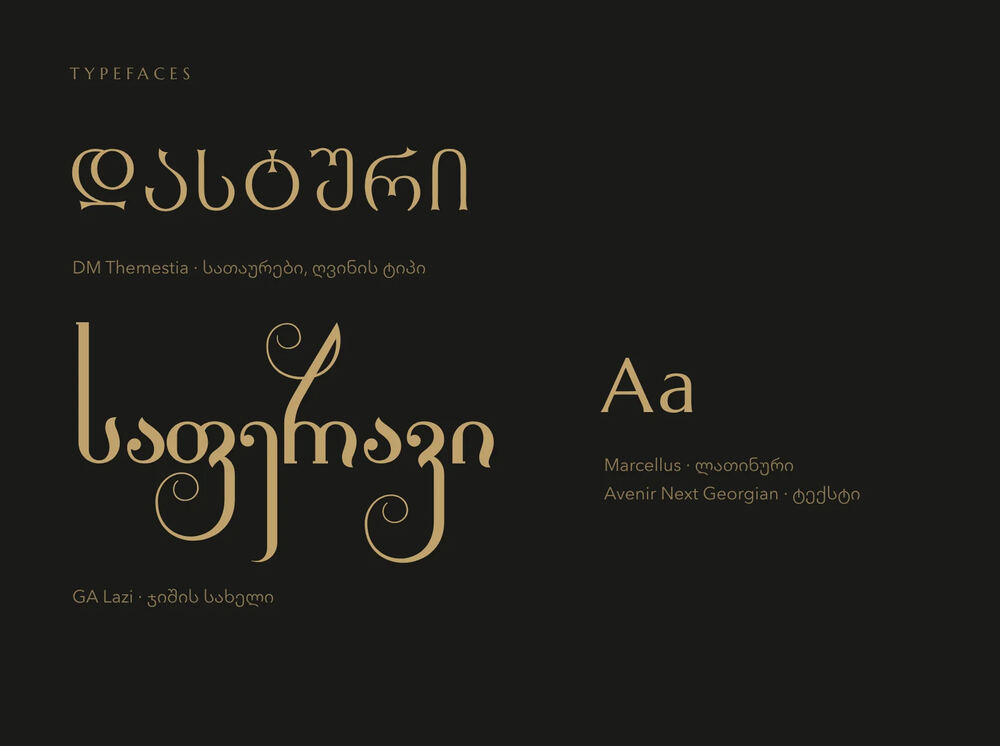
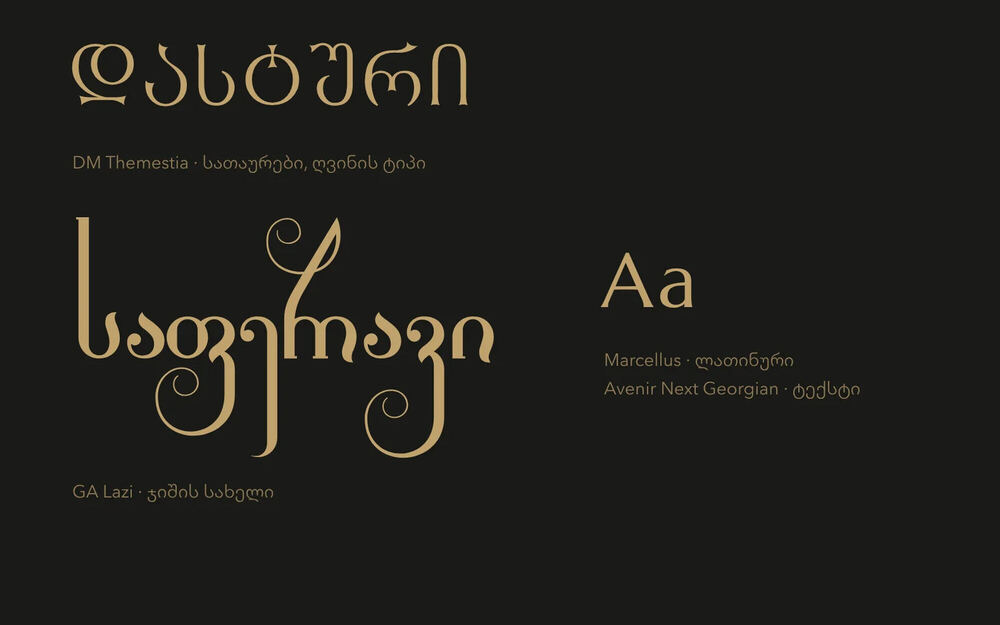
Dasturi: one canvas, one grid, numbered chapters, no repeated photos, specimen inset
Claude-Session: https://claude.ai/code/session_01Qp5BUKYT9N3deWkwTKb9NA

Changed region(s): [[0.062, 0.3344, 0.496, 0.8208], [0.062, 0.0608, 0.465, 0.304], [0.589, 0.3952, 0.868, 0.6688]]

diff --git a/src/app/baked/dasturi-case.tsx b/src/app/baked/dasturi-case.tsx
@@ -37,11 +37,10 @@ const SHOTS: Shot[] = [
   { key: 'terrace-gold', w: 2000, h: 1324, title: 'საწური, ქისი, ცოლიკაური', alt: 'სამი ბოთლი ქვის ტერასაზე, მთების ფონზე' },
   { key: 'duo-gold', w: 2000, h: 1324, title: 'საფერავი და ქისი', alt: 'საფერავი და ქისი ქვის კიბეზე, მზის შუქში' },
   { key: 'capsule', w: 1549, h: 1150, title: 'კაფსული', alt: 'ბოთლის ყელი, ბორდოსფერი კაფსულა ოქროსფერი წარწერით' },
-  { key: 'typefaces', w: 2000, h: 1492, title: 'ტიპოგრაფია', alt: 'დასტურის შრიფტები: DM Themestia, GA Lazi, Marcellus, Avenir Next Georgian' },
+  { key: 'typefaces', w: 2000, h: 1250, title: 'ტიპოგრაფია', alt: 'დასტურის შრიფტები: DM Themestia, GA Lazi, Marcellus, Avenir Next Georgian' },
   { key: 'terrace-bordeaux', w: 2000, h: 1324, title: 'ბორდოსფერი ოჯახი', alt: 'სამი ბოთლი ბორდოსფერი ეტიკეტებით ქვის ტერასაზე' },
   { key: 'duo-bordeaux', w: 1549, h: 1017, title: 'საფერავი და ქისი, ბორდო', alt: 'საფერავი და ქისი ბორდოსფერი ეტიკეტებით ქვის კიბეზე' },
   { key: 'saperavi-bordeaux', w: 1549, h: 1017, title: 'საფერავი, ბორდო', alt: 'საფერავი ბორდოსფერი ეტიკეტით ტრავერტინზე' },
-  { key: 'duo-satsuri', w: 1549, h: 1017, title: 'საწური და ცოლიკაური', alt: 'საწური და ცოლიკაური ქვის კიბეზე' },
 ];
 const at = (key: string) => SHOTS.findIndex((s) => s.key === key);
 
@@ -69,8 +68,8 @@ function Photo({ k, onOpen, sizes = FULL, cover }: { k: string; onOpen: (i: numb
 }
 
 /* Elegant type: small light headings, short justified columns */
-const H2 = 'text-[24px] sm:text-[30px] leading-[1.2]';
-const COL = 'text-[13.5px] leading-[1.85] text-justify [hyphens:manual] [text-align-last:left] tracking-[0.01em]';
+const H2 = 'text-[30px] sm:text-[44px] leading-[1.12] tracking-[-0.01em]';
+const COL = 'text-[15px] leading-[1.8] text-justify [hyphens:manual] [text-align-last:left] tracking-[0.01em]';
 
 /* Browsers have no Georgian hyphenation, so justified lines open wide gaps.
    Offer soft breaks at the common syllable boundary V-CV, keeping at least
@@ -88,52 +87,70 @@ function hy(text: string) {
   });
 }
 function Col({ children, className = '', dark }: { children: string; className?: string; dark?: boolean }) {
-  return <p lang="ka" className={`${COL} max-w-[360px] ${dark ? 'text-[#191A17]/65' : 'text-white/60'} ${className}`}>{hy(children)}</p>;
+  return <p lang="ka" className={`${COL} max-w-[380px] ${dark ? 'text-[#191A17]/65' : 'text-white/60'} ${className}`}>{hy(children)}</p>;
 }
 
-/* ── The label family: rise, foil, switch the edition ─────────────────── */
+
+/* ── Layout primitives: one canvas, one grid ───────────────────────── */
+
+/** the content width every section shares */
+function Wrap({ children, className = '' }: { children: React.ReactNode; className?: string }) {
+  return <div className={`mx-auto w-full max-w-[1240px] px-6 sm:px-10 lg:px-14 ${className}`}>{children}</div>;
+}
+
+/** a chapter opener: index + name on the left, heading in the middle, a justified column on the right */
+function Chapter({ no, name, title, children, id }: { no: string; name: string; title: string; children: string; id: string }) {
+  return (
+    <Wrap className="pt-28 sm:pt-40 pb-14 sm:pb-20">
+      <div className="grid grid-cols-1 lg:grid-cols-12 gap-x-8 gap-y-6 items-start">
+        <div className="lg:col-span-3 flex items-baseline gap-3 text-[13px]" style={{ color: GOLD }}>
+          <span className="tabular-nums">{no}</span><span className="text-white/45">{name}</span>
+        </div>
+        <h2 id={id} className={`lg:col-span-4 ${H2}`} style={{ fontFamily: SERIF, fontWeight: 300 }}>{title}</h2>
+        <div className="lg:col-span-5 lg:pt-3"><Col className="!max-w-[460px]">{children}</Col></div>
+      </div>
+    </Wrap>
+  );
+}
 
 function LabelSystem() {
   const [edition, setEdition] = useState<'gold' | 'bordeaux'>('gold');
   return (
-    <section aria-labelledby="system" className="rounded-md overflow-hidden" style={{ background: STONE, color: BLACK }}>
-      <div className="px-7 sm:px-12 lg:px-[9%] pt-16 sm:pt-20 grid grid-cols-1 lg:grid-cols-[1fr_auto] gap-8 items-end">
-        <h2 id="system" className={H2} style={{ fontFamily: SERIF, fontWeight: 300 }}>
-          ხუთი ჯიში, ერთი ოჯახი
-        </h2>
-        <div>
-          <Col dark>პანელი, არშია და ჯვარი ყველა ბოთლზე ერთია. იცვლება მხოლოდ ჯიშის სახელი და წელი.</Col>
-          <div className="mt-6 inline-flex rounded-full p-1 bg-[#191A17]/10" role="radiogroup" aria-label="გამოცემა">
-            {([['gold', 'ოქროსფერი', GOLD], ['bordeaux', 'ბორდოსფერი', BORDEAUX]] as const).map(([id, label, c]) => (
-              <button
-                key={id}
-                type="button"
-                role="radio"
-                aria-checked={edition === id}
-                onClick={() => setEdition(id)}
-                className={`inline-flex items-center gap-2 rounded-full px-4 py-2 text-[14px] transition-colors outline-none focus-visible:shadow-[0_0_0_2px_#191A17] ${edition === id ? 'bg-[#191A17] text-white' : 'text-[#191A17]/70 hover:text-[#191A17]'}`}
-              >
-                <span className="w-2.5 h-2.5 rounded-full" style={{ background: c }} />
-                {label}
-              </button>
-            ))}
-          </div>
+    <Wrap>
+      <div className="flex justify-end pb-8">
+        <div className="inline-flex rounded-full p-1 bg-white/[0.06] ring-1 ring-inset ring-white/10" role="radiogroup" aria-label="გამოცემა">
+          {([['gold', 'ოქროსფერი', GOLD], ['bordeaux', 'ბორდოსფერი', BORDEAUX]] as const).map(([id, label, c]) => (
+            <button
+              key={id}
+              type="button"
+              role="radio"
+              aria-checked={edition === id}
+              onClick={() => setEdition(id)}
+              className={`inline-flex items-center gap-2 rounded-full px-4 py-2 text-[13px] transition-colors outline-none focus-visible:shadow-[0_0_0_2px_#C0A16D] ${edition === id ? 'bg-[#F0EADF] text-[#191A17]' : 'text-white/60 hover:text-white'}`}
+            >
+              <span className="w-2.5 h-2.5 rounded-full ring-1 ring-inset ring-black/10" style={{ background: c }} />
+              {label}
+            </button>
+          ))}
         </div>
       </div>
-      <div className="px-5 sm:px-12 lg:px-[6%] pt-16 pb-20 sm:pb-28">
-        <LabelRow key={edition} edition={edition} />
-      </div>
-    </section>
+      <LabelRow key={edition} edition={edition} tone="dark" />
+    </Wrap>
   );
 }
-
-/* ── Page ───────────────────────────────────────────────────────────── */
 
 const swatches = [
   { name: 'Champagne Gold', ka: 'ოქროსფერი', role: 'ეტიკეტის პანელი', hex: '#C0A16D', ink: BLACK },
   { name: 'Wine Bordeaux', ka: 'ბორდოსფერი', role: 'კაფსული, მეორე გამოცემა', hex: '#7A1C30', ink: IVORY },
   { name: 'Soft Silver', ka: 'ვერცხლისფერი', role: 'დამატებითი', hex: '#A9ABAE', ink: BLACK },
   { name: 'Deep Black', ka: 'შავი', role: 'არშია, ტექსტი', hex: '#191A17', ink: IVORY },
+];
+
+const facts: [string, string][] = [
+  ['კლიენტი', 'დასტური'],
+  ['წელი', '2026'],
+  ['სერვისი', 'ლოგო, ეტიკეტები, შეფუთვა'],
+  ['ჯიშები', 'საფერავი, მანავის მწვანე, ქისი, საწური, ცოლიკაური'],
 ];
 
 export function DasturiCase() {
@@ -154,126 +171,123 @@ export function DasturiCase() {
       <CaseHeroTarget path="/projects/dasturi" />
       <MotionStyles />
 
-      <div className="px-1.5 pt-14 sm:pt-[52px] space-y-1.5">
-        {/* ── Hero: the ibex in chrome ─────────────────────────────── */}
-        <header className="relative rounded-md overflow-hidden min-h-[calc(100svh-64px)] flex flex-col" style={{ background: BLACK, color: IVORY }}>
-          <div className="flex items-start justify-between p-5 sm:p-8 text-[13px]">
-            <Link to="/work" className="inline-flex items-center gap-1.5 text-white/50 hover:text-white transition-colors">
-              <ArrowLeft size={13} /> ნამუშევრები
-            </Link>
-            <span className="hidden sm:inline text-white/40">გაამოძრავე კურსორი</span>
-          </div>
-          <div className="flex-1 flex items-center justify-center px-6">
-            <ChromeLogo
-              src={`${P}/ibex-height.png`}
-              fallback={`${P}/ibex-gold.png`}
-              alt="დასტურის ლოგო: ჯიხვი და სიტყვანიშანი, ქრომში"
-              className="h-[min(64svh,620px)] aspect-[1285/1693]"
-            />
-          </div>
-          <div className="grid grid-cols-1 sm:grid-cols-[1fr_auto] gap-4 items-end p-5 sm:p-8">
-            <h1 className="text-[22px] sm:text-[28px] leading-[1.2]" style={{ fontFamily: SERIF, fontWeight: 300 }}>
-              დასტური, ქართული ღვინის ბრენდი
-            </h1>
-            <p className="text-[14px] text-white/55 sm:text-right">ლოგო, ეტიკეტები და შეფუთვა<br />2026</p>
-          </div>
-        </header>
+      <article className="px-1.5 pt-14 sm:pt-[52px]">
+        <div className="rounded-md overflow-hidden" style={{ background: BLACK, color: IVORY }}>
 
-        {/* ── Opening ──────────────────────────────────────────────── */}
-        <section aria-label="პროექტის შესახებ" className="rounded-md overflow-hidden" style={{ background: BLACK, color: IVORY }}>
-          <div className="px-6 sm:px-12 lg:px-[9%] py-16 sm:py-24 grid grid-cols-2 lg:grid-cols-[1fr_1fr_340px_340px] gap-x-10 gap-y-8">
-            <dl className="contents text-[13px]">
-              {[['კლიენტი', 'დასტური'], ['სერვისი', 'ლოგო, ეტიკეტები, შეფუთვა']].map(([k, val]) => (
-                <div key={k}><dt style={{ color: GOLD }}>{k}</dt><dd className="mt-1 text-white/70">{val}</dd></div>
-              ))}
-            </dl>
-            <Col className="col-span-2 lg:col-span-1">დასტური ქართული ღვინის ახალი ბრენდია. ნიშნად ავირჩიეთ კავკასიური ჯიხვი: მშვიდი, ამაყი დგომით და მომრგვალებული რქებით.</Col>
-            <Col className="col-span-2 lg:col-span-1">ოქროსფერი პანელი, შავი არშია და წითელი ჯვარი ხუთ ჯიშს ერთ ოჯახად აერთიანებს, თითოეული კი თავისი ღვინის ფერს ინარჩუნებს.</Col>
-          </div>
+          {/* ── Hero: the ibex in chrome ─────────────────────────────── */}
+          <header className="relative min-h-[calc(100svh-64px)] flex flex-col">
+            <Wrap className="flex items-start justify-between pt-6 sm:pt-8 text-[13px]">
+              <Link to="/work" className="inline-flex items-center gap-1.5 text-white/50 hover:text-white transition-colors">
+                <ArrowLeft size={13} /> ნამუშევრები
+              </Link>
+              <span className="hidden sm:inline text-white/35">გაამოძრავე კურსორი</span>
+            </Wrap>
+            <div className="flex-1 flex items-center justify-center px-6 py-10">
+              <ChromeLogo
+                src={`${P}/ibex-height.png`}
+                fallback={`${P}/ibex-gold.png`}
+                alt="დასტურის ლოგო: ჯიხვი და სიტყვანიშანი, ქრომში"
+                className="h-[min(62svh,600px)] aspect-[1285/1693]"
+              />
+            </div>
+            <Wrap className="pb-8 sm:pb-10">
+              <div className="grid grid-cols-2 lg:grid-cols-12 gap-x-8 gap-y-5 pt-6 border-t border-white/10 text-[13px]">
+                <h1 className="col-span-2 lg:col-span-4 text-[20px] sm:text-[22px] leading-[1.25]" style={{ fontFamily: SERIF, fontWeight: 300 }}>
+                  დასტური, ქართული ღვინის ბრენდი
+                </h1>
+                {facts.map(([k, v], i) => (
+                  <div key={k} className={['lg:col-span-2', 'lg:col-span-1', 'lg:col-span-2', 'col-span-2 lg:col-span-3'][i]}>
+                    <div style={{ color: GOLD }}>{k}</div>
+                    <div className="mt-1 text-white/65 leading-[1.5]">{v}</div>
+                  </div>
+                ))}
+              </div>
+            </Wrap>
+          </header>
+
+          {/* ── Statement ────────────────────────────────────────────── */}
+          <Wrap className="pt-28 sm:pt-40 pb-20 sm:pb-28">
+            <div className="grid grid-cols-1 lg:grid-cols-12 gap-x-8 gap-y-10">
+              <p className="lg:col-start-4 lg:col-span-8 text-[28px] sm:text-[44px] lg:text-[52px] leading-[1.18] tracking-[-0.01em]" style={{ fontFamily: SERIF, fontWeight: 300 }}>
+                ნიშნად ავირჩიეთ კავკასიური ჯიხვი: მშვიდი, ამაყი დგომით და მომრგვალებული რქებით.
+              </p>
+              <div className="lg:col-start-4 lg:col-span-8 grid grid-cols-1 sm:grid-cols-2 gap-x-10 gap-y-6">
+                <Col className="!max-w-none">დასტური ქართული ღვინის ახალი ბრენდია. სახელი თანხმობას ნიშნავს, სიტყვას, რომლითაც სუფრაზე სადღეგრძელოს ადასტურებენ.</Col>
+                <Col className="!max-w-none">ოქროსფერი პანელი, შავი არშია და წითელი ჯვარი ხუთ ჯიშს ერთ ოჯახად აერთიანებს, თითოეული კი თავისი ღვინის ფერს ინარჩუნებს.</Col>
+              </div>
+            </div>
+          </Wrap>
           <Photo k="lineup" onOpen={setOpen} />
-        </section>
 
-        {/* ── Construction ─────────────────────────────────────────── */}
-        <section aria-labelledby="build" className="rounded-md overflow-hidden" style={{ background: BLACK, color: IVORY }}>
-          <div className="grid grid-cols-1 lg:grid-cols-[1fr_2.4fr] items-end">
-            <div className="px-7 sm:px-12 lg:pl-[18%] pt-16 lg:pb-24">
-              <h2 id="build" className={H2} style={{ fontFamily: SERIF, fontWeight: 300 }}>კონსტრუქცია</h2>
-              <Col className="mt-5">ჯიხვი წრის რკალებზეა აწყობილი: რქებში R 160, R 82 და R 64. თეთრად მონიშნულია მონაკვეთი, რომელსაც წრე ემთხვევა. თავისუფალი სივრცე 1X-ია.</Col>
+          {/* ── 01 Mark ──────────────────────────────────────────────── */}
+          <Chapter no="01" name="ნიშანი" id="build" title="ჯიხვი, აგებული წრის რკალებზე">
+            რქებში სამი რკალია, R 160, R 82 და R 64. თეთრად მონიშნულია მოხაზულობის ის მონაკვეთი, რომელსაც წრე ზუსტად ემთხვევა. თავისუფალი სივრცე ყველა მხარეს 1X-ია, DASTURI-ს ასოს სიმაღლე.
+          </Chapter>
+          <Wrap>
+            <div className="mx-auto max-w-[min(640px,calc((100svh-120px)*0.81))]"><Construction /></div>
+          </Wrap>
+          <Wrap className="pt-20 sm:pt-28">
+            <div className="grid grid-cols-1 lg:grid-cols-12 gap-x-8 gap-y-4 items-end pb-2">
+              <div className="lg:col-span-3 text-[13px] text-white/45">სიტყვანიშანი</div>
+              <div className="lg:col-span-5 text-[15px] text-white/70" style={{ fontFamily: SERIF }}>ასოები ერთ ფუძის ხაზზე, რბილი მრუდებით</div>
             </div>
-            <div className="px-4 sm:px-10 py-12 lg:py-16"><Construction /></div>
-          </div>
-        </section>
+            <Anatomy />
+          </Wrap>
 
-        {/* ── Wordmark anatomy ─────────────────────────────────────── */}
-        <section aria-labelledby="anatomy" className="rounded-md overflow-hidden" style={{ background: BORDEAUX, color: IVORY }}>
-          <div className="px-7 sm:px-12 lg:px-[9%] pt-16 sm:pt-20 grid grid-cols-1 lg:grid-cols-[1fr_auto] gap-8 items-end">
-            <h2 id="anatomy" className={H2} style={{ fontFamily: SERIF, fontWeight: 300 }}>სიტყვანიშანი</h2>
-            <Col className="!text-white/70">ასოები ერთ ფუძის ხაზზე დგას. რბილი მრუდები ჯიხვის რქების რიტმს იმეორებს.</Col>
-          </div>
-          <div className="px-4 sm:px-10 lg:px-[6%] py-14 sm:py-20"><Anatomy /></div>
-        </section>
-
-        {/* ── Label family ─────────────────────────────────────────── */}
-        <LabelSystem />
-
-        {/* ── Gold line in the world ───────────────────────────────── */}
-        <section aria-label="ფოტოები" className="rounded-md overflow-hidden" style={{ background: BLACK }}>
-          <div className="grid grid-cols-1 md:grid-cols-2">
-            <div className="md:aspect-[3/2]"><Photo k="saperavi" onOpen={setOpen} sizes={HALF} cover /></div>
-            <div className="md:aspect-[3/2]"><Photo k="kisi" onOpen={setOpen} sizes={HALF} cover /></div>
-          </div>
-          <Photo k="terrace-gold" onOpen={setOpen} />
-          <Photo k="duo-gold" onOpen={setOpen} />
-        </section>
-
-        {/* ── Craft: capsule and lettering ─────────────────────────── */}
-        <section aria-labelledby="craft" className="rounded-md overflow-hidden" style={{ background: BLACK, color: IVORY }}>
-          <div className="grid grid-cols-1 lg:grid-cols-[2fr_1fr] items-end">
-            <div className="lg:aspect-auto"><Photo k="capsule" onOpen={setOpen} sizes="(min-width: 1024px) 56vw, 100vw" /></div>
-            <div className="px-7 py-14 sm:px-12 lg:pb-16">
-              <h2 id="craft" className={H2} style={{ fontFamily: SERIF, fontWeight: 300 }}>კაფსული</h2>
-              <Col className="mt-5">დასტური და DASTURI ვერტიკალურად, ოქროსფერი ფოლგით ბორდოსფერ კაფსულაზე, ისევე როგორც ეტიკეტის არშიაზე.</Col>
+          {/* ── 02 Label ─────────────────────────────────────────────── */}
+          <Chapter no="02" name="ეტიკეტი" id="system" title="ხუთი ჯიში, ერთი ოჯახი">
+            პანელი, არშია და ჯვარი ყველა ბოთლზე ერთია. იცვლება ჯიშის სახელი და წელი. ოქროსფერ გამოცემაში ჯიხვი გამჭვირვალე ჭრილია და ბოთლის ღვინის ფერს იღებს.
+          </Chapter>
+          <LabelSystem />
+          <div className="pt-24 sm:pt-32">
+            <div className="grid grid-cols-1 md:grid-cols-2">
+              <div className="md:aspect-[3/2]"><Photo k="saperavi" onOpen={setOpen} sizes={HALF} cover /></div>
+              <div className="md:aspect-[3/2]"><Photo k="kisi" onOpen={setOpen} sizes={HALF} cover /></div>
             </div>
+            <Photo k="terrace-gold" onOpen={setOpen} />
           </div>
-          <Photo k="typefaces" onOpen={setOpen} />
-          <div className="px-7 sm:px-12 lg:px-[9%] pb-14 pt-2 grid grid-cols-2 lg:grid-cols-4 gap-6 text-[13px] leading-[1.5]">
-            {[
-              ['DM Themestia', 'სათაურები და ღვინის ტიპი'],
-              ['GA Lazi', 'ჯიშის სახელი'],
-              ['Marcellus', 'ლათინური'],
-              ['Avenir Next Georgian', 'ტექსტი'],
-            ].map(([f, r]) => (
-              <div key={f}><div style={{ color: GOLD }}>{f}</div><div className="mt-1 text-white/60">{r}</div></div>
-            ))}
-          </div>
-        </section>
 
-        {/* ── Colour ───────────────────────────────────────────────── */}
-        <section aria-label="ფერები" className="rounded-md overflow-hidden"><Swatches items={swatches} /></section>
+          {/* ── 03 Craft ─────────────────────────────────────────────── */}
+          <Chapter no="03" name="დეტალები" id="craft" title="ოქროს ფოლგა ბორდოს კაფსულაზე">
+            დასტური და DASTURI ვერტიკალურად, ისევე როგორც ეტიკეტის არშიაზე. ბოთლი თაროზე ორივე ანბანით იკითხება.
+          </Chapter>
+          <Wrap>
+            <div className="grid grid-cols-1 md:grid-cols-12 gap-2">
+              <div className="md:col-span-5 overflow-hidden rounded-[4px] md:aspect-[4/5]"><Photo k="capsule" onOpen={setOpen} sizes="(min-width: 768px) 40vw, 100vw" cover /></div>
+              <div className="md:col-span-7 overflow-hidden rounded-[4px] md:aspect-[7/5]"><Photo k="duo-gold" onOpen={setOpen} sizes="(min-width: 768px) 56vw, 100vw" cover /></div>
+            </div>
+          </Wrap>
 
-        {/* ── Bordeaux edition ─────────────────────────────────────── */}
-        <section aria-labelledby="bordeaux" className="rounded-md overflow-hidden" style={{ background: BORDEAUX, color: IVORY }}>
-          <div className="px-7 sm:px-12 lg:px-[9%] py-16 sm:py-20 grid grid-cols-1 lg:grid-cols-[1fr_auto] gap-8 items-end">
-            <h2 id="bordeaux" className={H2} style={{ fontFamily: SERIF, fontWeight: 300 }}>ბორდოსფერი გამოცემა</h2>
-            <Col className="!text-white/70">იგივე ბადე და არშია, მეორე ფერი. ჯიხვი აქ გაუმჭვირვალე ოქროა.</Col>
-          </div>
+          {/* ── 04 Colour and type ───────────────────────────────────── */}
+          <Chapter no="04" name="ფერი და შრიფტი" id="colour" title="ოთხი ფერი, ოთხი შრიფტი">
+            ოქროსფერი და ბორდოსფერი ძირითადია, ვერცხლისფერი დამატებითი. სათაურებზე DM Themestia, ჯიშის სახელზე GA Lazi, ლათინურზე Marcellus, ტექსტზე Avenir Next Georgian.
+          </Chapter>
+          <Wrap>
+            <Swatches items={swatches} />
+          </Wrap>
+          <Wrap className="pt-2"><div className="rounded-[4px] overflow-hidden ring-1 ring-inset ring-white/10"><Photo k="typefaces" onOpen={setOpen} sizes="(min-width: 1240px) 1140px, 100vw" /></div></Wrap>
+
+          {/* ── 05 Bordeaux ──────────────────────────────────────────── */}
+          <Chapter no="05" name="მეორე გამოცემა" id="bordeaux" title="იგივე სისტემა, ბორდოსფერში">
+            ბადე, არშია და ქვედა ზოლი უცვლელია. პანელი ბორდოსფერია, ჯიხვი კი გაუმჭვირვალე ოქრო, ამიტომ ორივე ხაზი ერთ თაროზე ერთ ოჯახად დგას.
+          </Chapter>
           <Photo k="terrace-bordeaux" onOpen={setOpen} />
           <div className="grid grid-cols-1 md:grid-cols-2">
             <div className="md:aspect-[3/2]"><Photo k="duo-bordeaux" onOpen={setOpen} sizes={HALF} cover /></div>
             <div className="md:aspect-[3/2]"><Photo k="saperavi-bordeaux" onOpen={setOpen} sizes={HALF} cover /></div>
           </div>
-        </section>
 
-        {/* ── Close ────────────────────────────────────────────────── */}
-        <section aria-label="დასასრული" className="rounded-md overflow-hidden" style={{ background: BLACK, color: IVORY }}>
-          <Photo k="duo-satsuri" onOpen={setOpen} />
-          <div className="px-6 py-16 sm:py-20 flex flex-col items-center text-center">
-            <p className="text-[20px] sm:text-[24px] leading-[1.4]" style={{ fontFamily: SERIF, fontWeight: 300 }}>დასტური</p>
-            <p className="mt-2 text-[13px] text-white/50">ლოგო, ეტიკეტები, შეფუთვა, 2026</p>
-            <div className="mt-10"><CtaLink /></div>
-          </div>
-        </section>
-      </div>
+          {/* ── Close ────────────────────────────────────────────────── */}
+          <Wrap className="py-28 sm:py-40">
+            <div className="grid grid-cols-1 lg:grid-cols-12 gap-x-8 gap-y-10 items-end">
+              <p className="lg:col-start-4 lg:col-span-6 text-[28px] sm:text-[40px] leading-[1.2] tracking-[-0.01em]" style={{ fontFamily: SERIF, fontWeight: 300 }}>
+                ახალი ჯიში იგივე წესით დაემატება: პანელი, ჯიხვი და სახელი.
+              </p>
+              <div className="lg:col-span-3 lg:justify-self-end"><CtaLink /></div>
+            </div>
+          </Wrap>
+        </div>
+      </article>
 
       {/* Other cases */}
       <section aria-labelledby="more" className="px-1.5 pt-24">

diff --git a/src/app/baked/dasturi-motion.tsx b/src/app/baked/dasturi-motion.tsx
@@ -190,7 +190,7 @@ export function Anatomy() {
 
 /* ── 3. The family: five labels rise, gold foil catches the light ───── */
 
-export function LabelRow({ edition }: { edition: 'gold' | 'bordeaux' }) {
+export function LabelRow({ edition, tone = 'light' }: { edition: 'gold' | 'bordeaux'; tone?: 'light' | 'dark' }) {
   const [ref, on] = useSeen<HTMLDivElement>(0.3);
   const ids = ['saperavi', 'manavi', 'kisi', 'satsuri', 'tsolikouri'];
   const names = ['საფერავი', 'მანავის მწვანე', 'ქისი', 'საწური', 'ცოლიკაური'];
@@ -198,11 +198,11 @@ export function LabelRow({ edition }: { edition: 'gold' | 'bordeaux' }) {
     <div ref={ref} className={`grid grid-cols-5 gap-[1.6%] ${on ? 'ds-on' : ''}`}>
       {ids.map((id, i) => (
         <figure key={id} className="ds-rise group" style={{ ['--delay' as string]: `${i * 0.12}s`, ['--tilt' as string]: `${(i - 2) * 2}deg` }}>
-          <div className="relative overflow-hidden shadow-[0_24px_40px_-18px_rgba(25,26,23,0.55)] transition-transform duration-500 group-hover:-translate-y-2">
+          <div className="relative overflow-hidden shadow-[0_28px_50px_-20px_rgba(0,0,0,0.7)] transition-transform duration-500 group-hover:-translate-y-2">
             <img src={`/cases/dasturi/labels/${id}-${edition}.jpg`} alt={`${names[i]}, ${edition === 'gold' ? 'ოქროსფერი' : 'ბორდოსფერი'} ეტიკეტი`} width={554} height={1000} loading="lazy" className="block w-full h-auto" />
             <div className="ds-sheen absolute inset-0 pointer-events-none" style={{ ['--delay' as string]: `${i * 0.25}s` }} />
           </div>
-          <figcaption className="mt-3 text-center text-[12px] sm:text-[14px]" style={{ fontFamily: SERIF, color: BLACK }}>{names[i]}</figcaption>
+          <figcaption className="mt-3 text-center text-[12px] sm:text-[14px]" style={{ fontFamily: SERIF, color: tone === 'dark' ? 'rgba(240,234,223,.7)' : BLACK }}>{names[i]}</figcaption>
         </figure>
       ))}
     </div>
@@ -214,9 +214,9 @@ export function LabelRow({ edition }: { edition: 'gold' | 'bordeaux' }) {
 export function Swatches({ items }: { items: { name: string; ka: string; role: string; hex: string; ink: string }[] }) {
   const [ref, on] = useSeen<HTMLDivElement>(0.3);
   return (
-    <div ref={ref} className={`grid grid-cols-2 lg:grid-cols-4 ${on ? 'ds-on' : ''}`} style={{ background: BLACK }}>
+    <div ref={ref} className={`grid grid-cols-2 lg:grid-cols-4 gap-2 ${on ? 'ds-on' : ''}`}>
       {items.map((c, i) => (
-        <div key={c.hex} className="ds-wipe aspect-[4/5] lg:aspect-[3/4] p-5 sm:p-7 flex flex-col justify-between" style={{ background: c.hex, color: c.ink, ['--delay' as string]: `${i * 0.14}s` }}>
+        <div key={c.hex} className="ds-wipe aspect-[4/5] lg:aspect-[3/4] p-5 sm:p-6 flex flex-col justify-between rounded-[4px] ring-1 ring-inset ring-white/10" style={{ background: c.hex, color: c.ink, ['--delay' as string]: `${i * 0.14}s` }}>
           <div className="text-[14px] opacity-75">{c.ka}<br /><span className="opacity-70">{c.role}</span></div>
           <div>
             <div className="text-[24px] sm:text-[30px] leading-[1.05]" style={{ fontFamily: '"Marcellus", Georgia, serif' }}>{c.name}</div>
